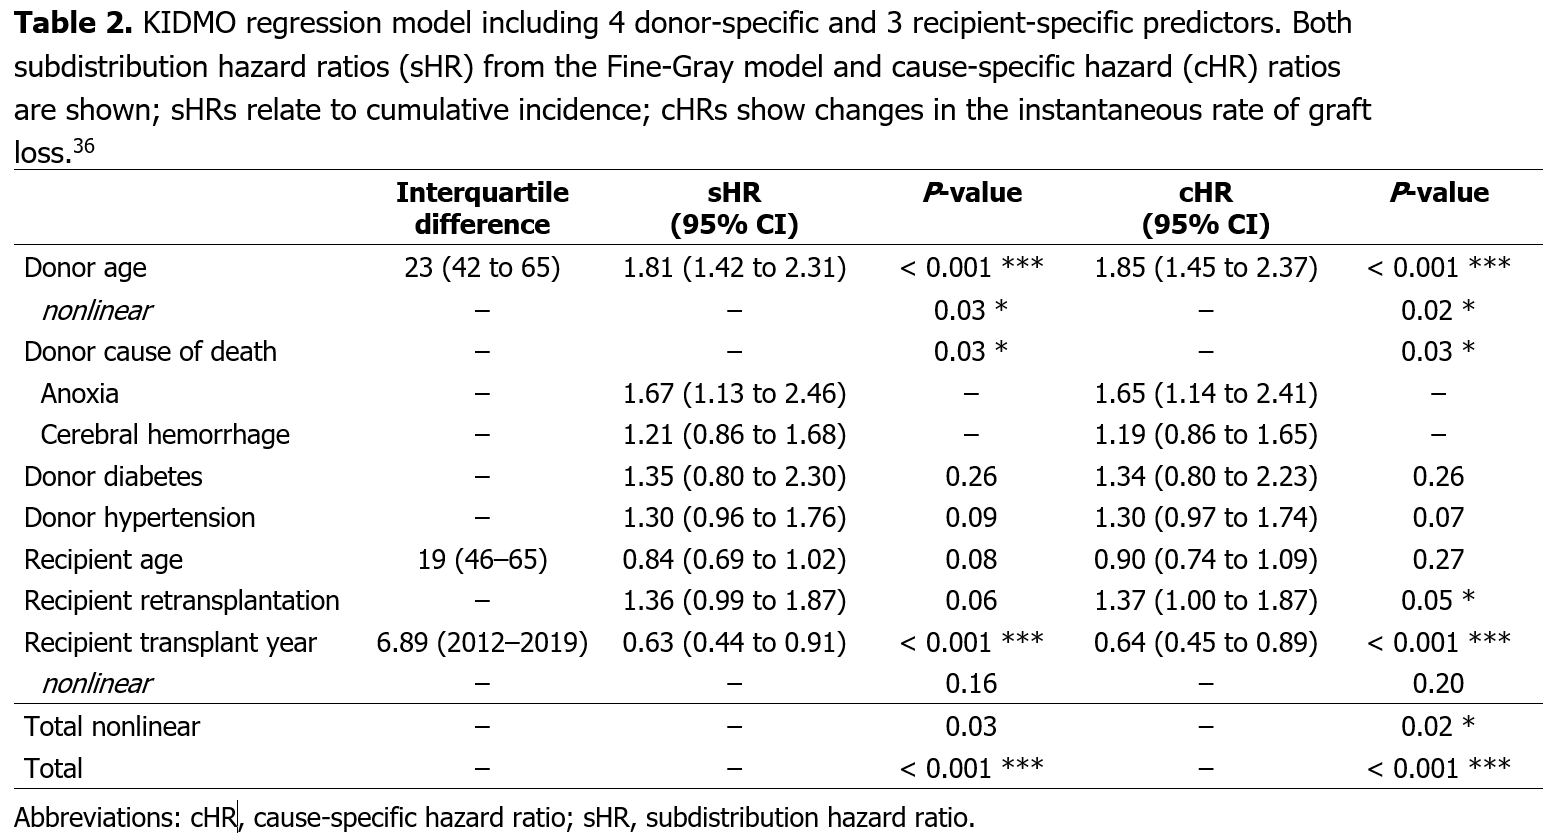
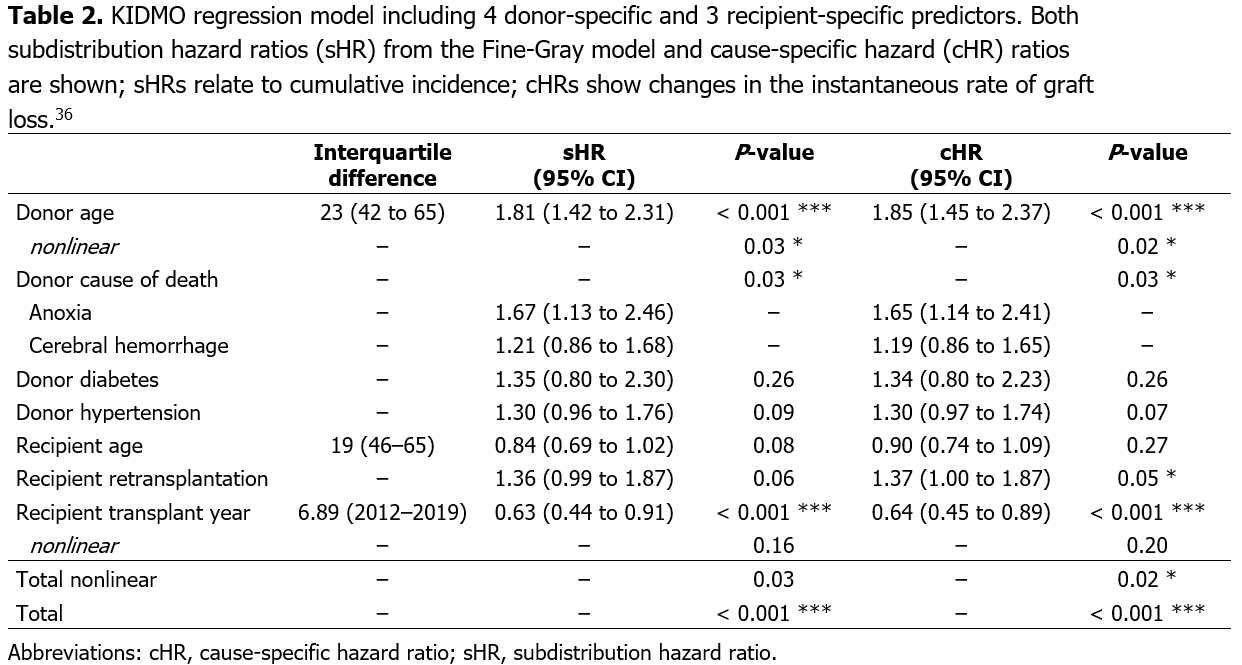
update

diff --git a/docs/slides_kidmo.html b/docs/slides_kidmo.html
@@ -255,7 +255,7 @@ Simon Schwab
 <section id="swiss-transplant-centers" class="slide level2">
 <h2>Swiss transplant centers</h2>
 
-<img data-src="centers.png" style="width:100.0%" class="r-stretch"></section>
+<img data-src="centers.png" style="width:90.0%" class="r-stretch"></section>
 <section id="methods" class="slide level2">
 <h2>Methods</h2>
 <ul>
@@ -344,7 +344,7 @@ Simon Schwab
 <section id="full-model" class="slide level2 smaller">
 <h2>Full model</h2>
 
-<img data-src="full_model.png" style="width:83.0%" class="r-stretch"><ul>
+<img data-src="full_model.png" style="width:90.0%" class="r-stretch"><ul>
 <li>15 predictor variables altogether
 <ul>
 <li>not included: recipient DSA, recipient time on dialysis (missing data)</li>
@@ -376,7 +376,7 @@ Simon Schwab
 <section id="partial-effects" class="slide level2">
 <h2>Partial effects</h2>
 
-<img data-src="partial_effects.png" style="width:100.0%" class="r-stretch quarto-figure-center"><p class="caption">Partial effects of the continuous variables (B) donor age, (C) recipient age, and (D) transplantation year on the graft loss rate.</p><ul>
+<img data-src="partial_effects.png" style="width:90.0%" class="r-stretch quarto-figure-center"><p class="caption">Partial effects of the continuous variables (B) donor age, (C) recipient age, and (D) transplantation year on the graft loss rate.</p><ul>
 <li>Reveals important relationship with outcome</li>
 <li>Does it make sense, clinically?</li>
 </ul>
@@ -384,7 +384,7 @@ Simon Schwab
 <section id="performance-measures" class="slide level2">
 <h2>Performance measures</h2>
 
-<img data-src="performance.png" style="width:100.0%" class="r-stretch"><ul>
+<img data-src="performance.png" style="width:90.0%" class="r-stretch"><ul>
 <li>Modest discrimination</li>
 <li>Good calibration</li>
 </ul>
@@ -417,7 +417,7 @@ Simon Schwab
 <h2>Linear predictor</h2>
 <p>The term <span class="math inline">\(\mathrm{e}^{X\beta}\)</span> is the individual-specific subdistribution hazard ratio derived from the linear predictor <span class="math inline">\(X\hat{\beta}\)</span> shown below.</p>
 
-<img data-src="Xb.png" style="width:100.0%" class="r-stretch"></section>
+<img data-src="Xb.png" style="width:90.0%" class="r-stretch"></section>
 <section id="absolute-risks" class="slide level2 smaller">
 <h2>Absolute risks</h2>
 <p>The cumulative incidence, i.e., the probability of graft loss by time <span class="math inline">\(t\)</span> for an individual with covariates <span class="math inline">\(X\)</span>, is</p>
@@ -444,7 +444,7 @@ F(t~|~X) = 1 - S_{0}(t)^{\textrm{e}^{X\beta}},
 </ul>
 <div class="code-copy-outer-scaffold"><div class="sourceCode" id="cb1"><pre class="sourceCode numberSource r number-lines code-with-copy"><code class="sourceCode r"><span id="cb1-1"><a></a>remotes<span class="sc">::</span><span class="fu">install_github</span>(<span class="st">"Swisstransplant/swt"</span>)</span></code></pre></div><button title="In die Zwischenablage kopieren" class="code-copy-button"><i class="bi"></i></button></div>
 
-<img data-src="hex-swt.png" style="width:100.0%" class="r-stretch"></section>
+<img data-src="hex-swt.png" style="width:90.0%" class="r-stretch"></section>
 <section id="kidmo-function" class="slide level2">
 <h2><code>kidmo()</code> function</h2>
 <div class="columns">
@@ -584,7 +584,7 @@ Summary:
 </ul>
 <div class="columns">
 <div class="column" style="width:50%;">
-<p><img data-src="riskcalc.png" style="width:100.0%"></p>
+<p><img data-src="riskcalc.png" style="width:90.0%"></p>
 </div><div class="column" style="width:50%;">
 <p>Code in Quarto Website:</p>
 <pre><code>&lt;iframe id="KIDMO" src="https://swisstransplant-kidmo-app.share.connect.posit.cloud" style="border: none; width: 100%; height: 570px" frameborder="0"&gt;&lt;/iframe&gt;</code></pre>
